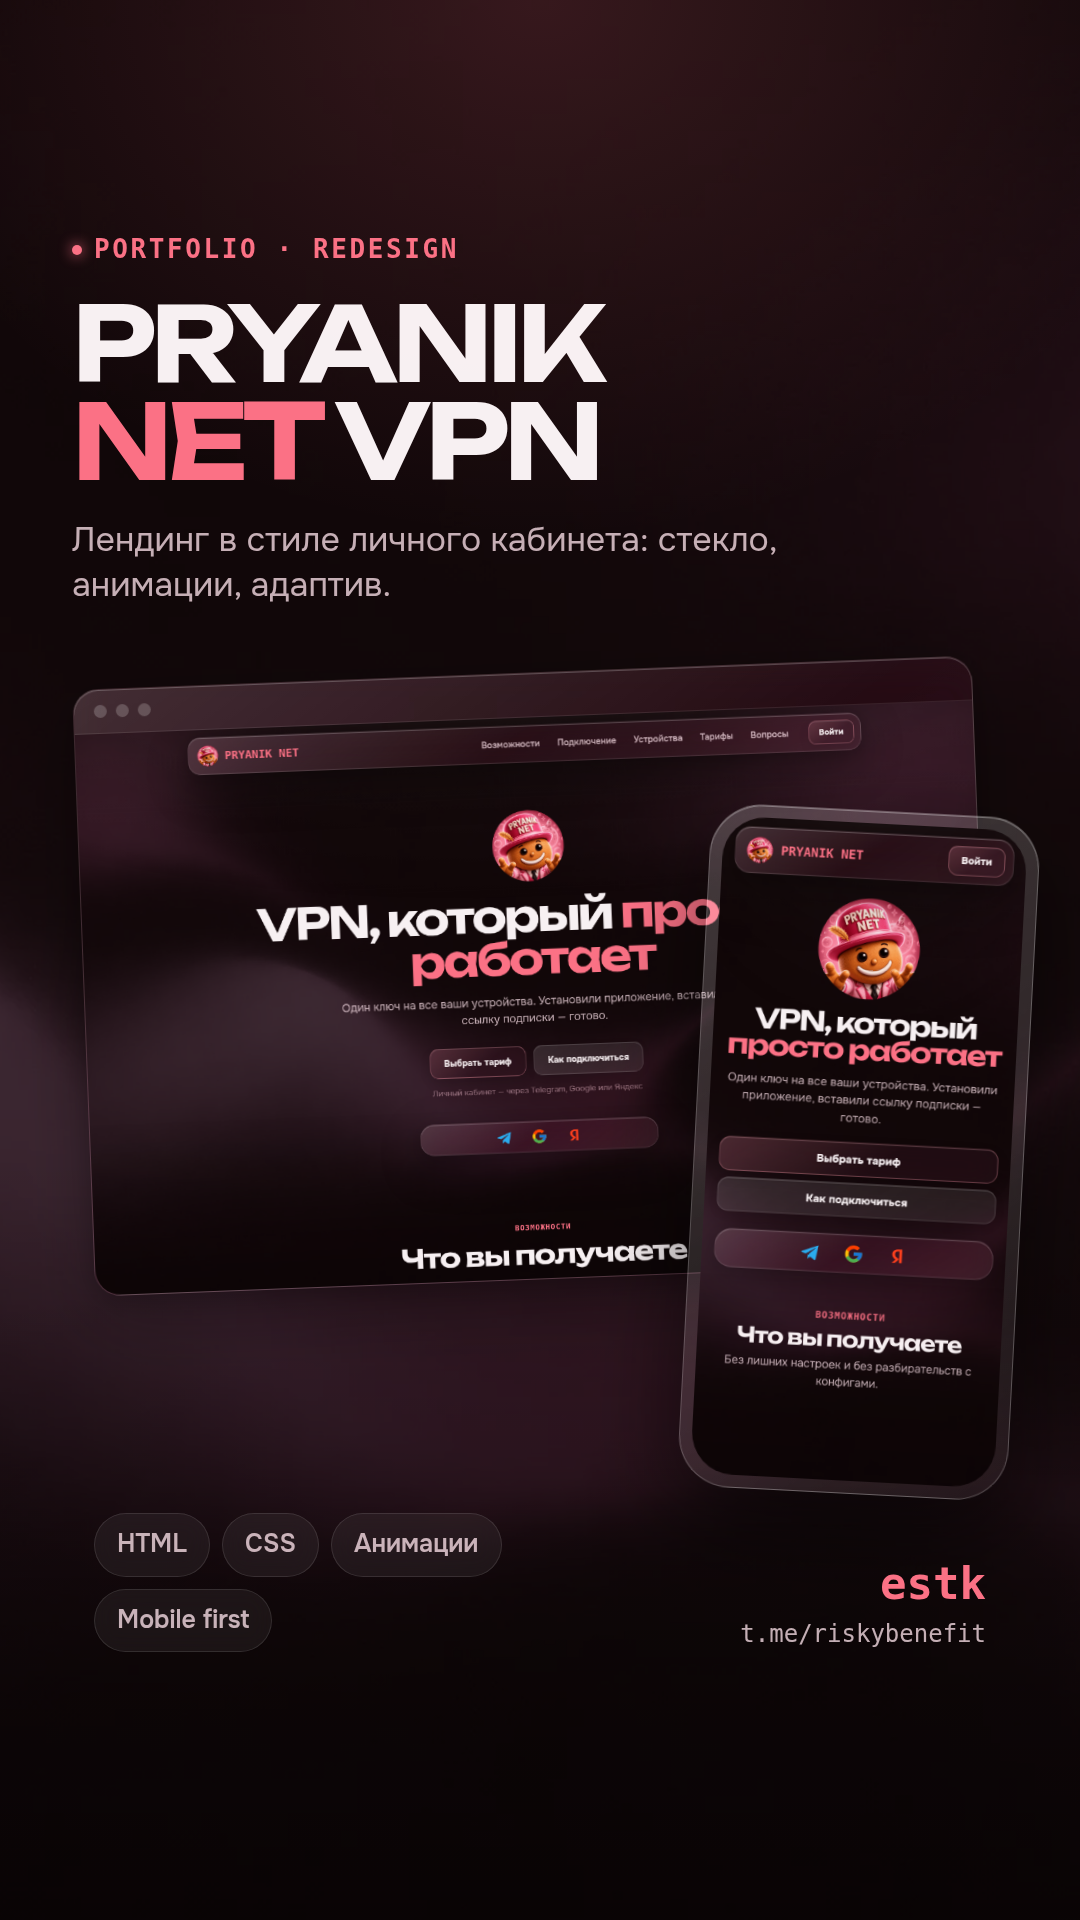
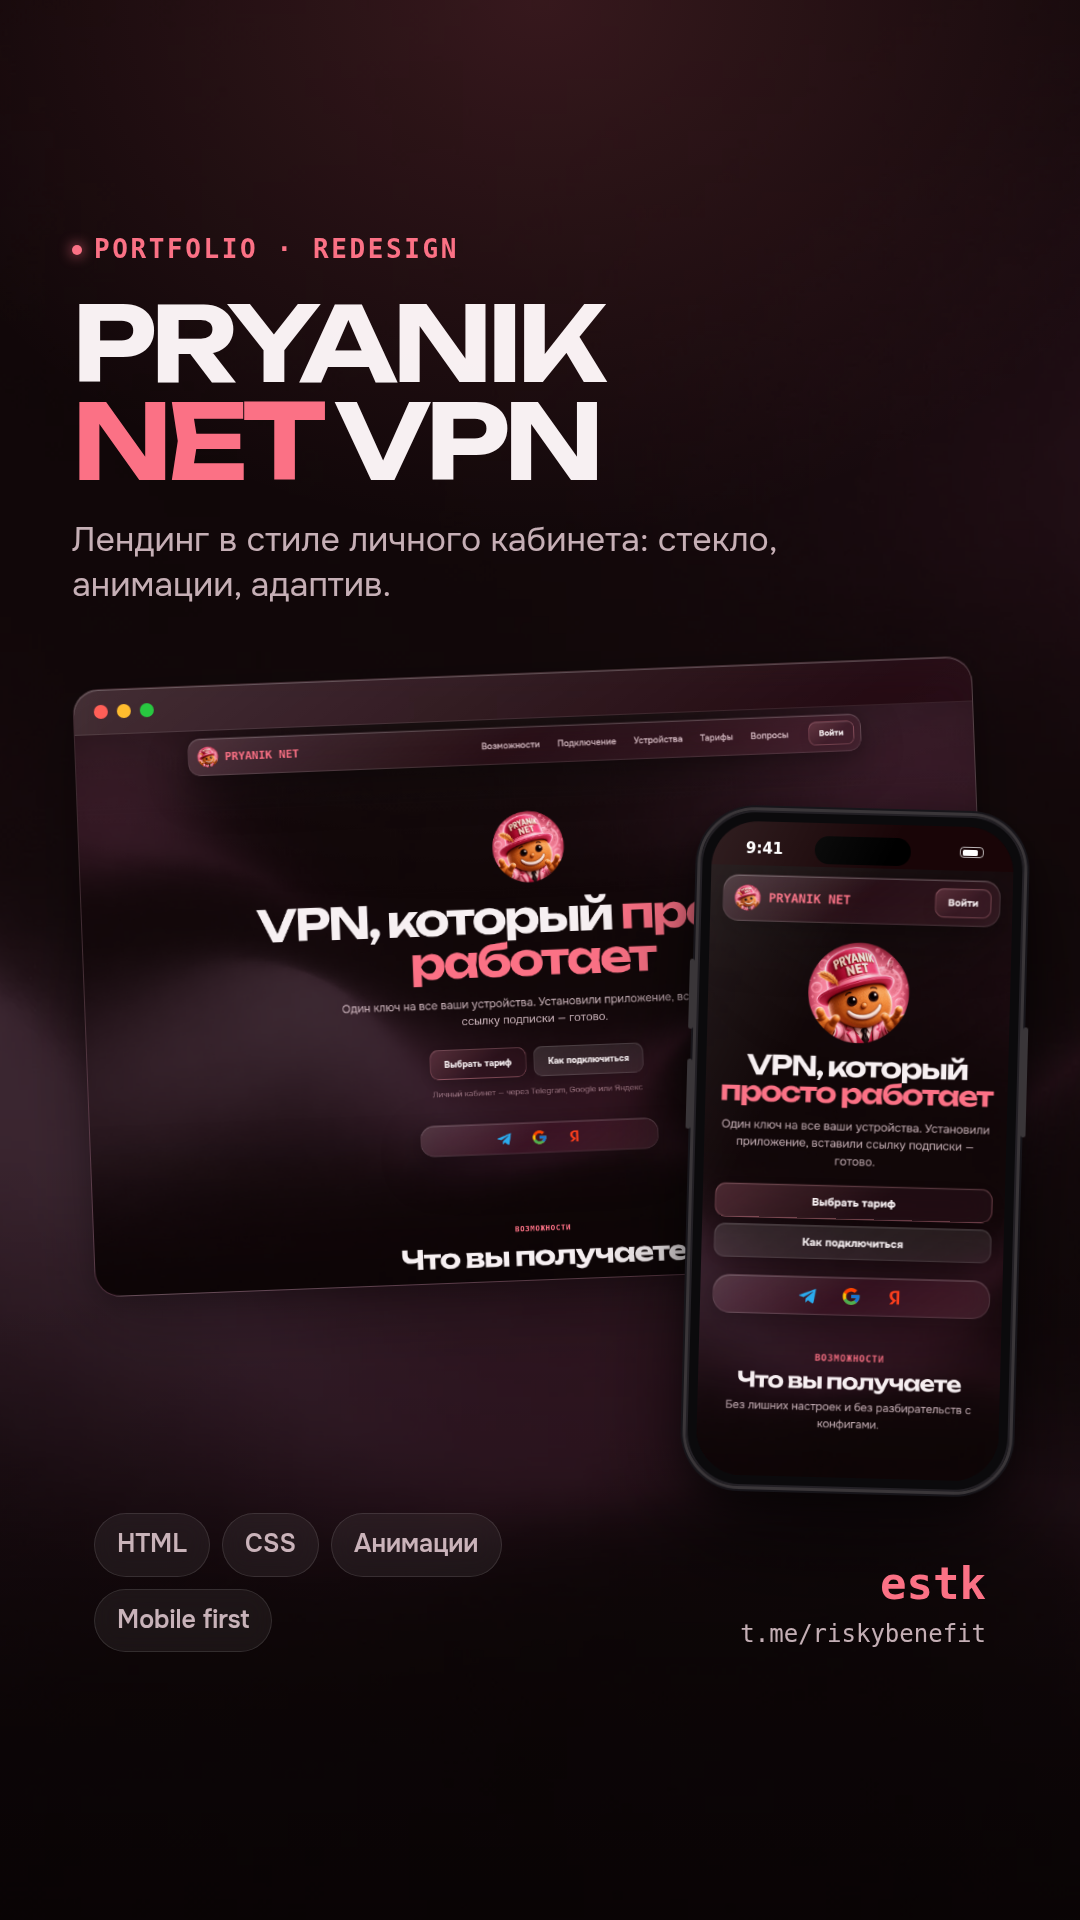
Story: realistic phone frame, colored window dots
Claude-Session: https://claude.ai/code/session_01LoewjAg2RbUAqsVYzxWfXA

diff --git a/pryanik-vpn/story/story.html b/pryanik-vpn/story/story.html
@@ -15,10 +15,19 @@ h1 em{font-style:normal;color:var(--accent)}
 .mock{position:absolute;left:0;right:0;top:690px;height:760px}
 .win{position:absolute;left:72px;top:0;width:900px;border-radius:26px;padding:0;transform:rotate(-2.2deg);transform-origin:left top}
 .win .top{display:flex;gap:9px;padding:15px 20px;border-bottom:1px solid rgba(255,255,255,.09)}
-.win .top i{width:13px;height:13px;border-radius:50%;background:rgba(255,255,255,.2)}
+.win .top i{width:14px;height:14px;border-radius:50%;background:#ff5f57}.win .top i:nth-child(2){background:#febc2e}.win .top i:nth-child(3){background:#28c840}
 .win img{display:block;width:100%}
-.phone{position:absolute;right:56px;top:120px;width:330px;border-radius:52px;padding:12px;transform:rotate(3deg);background:linear-gradient(145deg,rgba(255,255,255,.2),rgba(255,255,255,.05));border:1px solid rgba(255,255,255,.22);box-shadow:0 40px 90px rgba(0,0,0,.55),inset 0 1px 0 rgba(255,255,255,.3)}
-.phone img{display:block;width:100%;border-radius:42px}
+.phone{position:absolute;right:60px;top:120px;width:330px;padding:11px;border-radius:58px;transform:rotate(1.5deg);background:#0b0a0c;border:3px solid #3a3639;box-shadow:0 0 0 2px #17151a,inset 0 0 0 2px #232025,0 50px 100px rgba(0,0,0,.6),0 12px 30px rgba(0,0,0,.4)}
+.phone::before,.phone::after{content:"";position:absolute;width:5px;background:#3a3639;border-radius:3px}
+.phone::before{left:-8px;top:150px;height:70px;box-shadow:0 100px 0 #3a3639}
+.phone::after{right:-8px;top:210px;height:110px}
+.phone .isl{position:absolute;left:50%;top:24px;width:96px;height:28px;margin-left:-48px;border-radius:20px;background:#000;z-index:2}
+.phone .glare{position:absolute;inset:11px;border-radius:46px;background:linear-gradient(115deg,rgba(255,255,255,.10),transparent 32%);pointer-events:none;z-index:3}
+.scr{position:relative;overflow:hidden;border-radius:46px;background:#190507;aspect-ratio:390/844}
+.scr img{display:block;width:100%;margin-top:44px}
+.scr .sb{position:absolute;left:34px;right:30px;top:20px;display:flex;justify-content:space-between;font:600 15px/1 -apple-system,system-ui,sans-serif;color:#fff;z-index:1}
+.scr .sb i{display:inline-block;width:24px;height:11px;border:1.5px solid rgba(255,255,255,.7);border-radius:4px;position:relative}
+.scr .sb i::after{content:"";position:absolute;inset:1.5px;right:5px;background:#fff;border-radius:1.5px}
 .foot{position:absolute;left:72px;right:72px;bottom:250px;display:flex;align-items:flex-end;justify-content:space-between;gap:20px}
 .chips{display:flex;flex-wrap:wrap;gap:12px;max-width:560px}
 .chip{padding:12px 22px;border-radius:999px;font-size:25px;font-weight:600;color:var(--muted);border:1px solid var(--lg-line-soft);background:rgba(255,255,255,.06);backdrop-filter:blur(12px)}
@@ -32,7 +41,7 @@ h1 em{font-style:normal;color:var(--accent)}
   <p class="sub">Лендинг в стиле личного кабинета: стекло, анимации, адаптив.</p>
   <div class="mock">
     <div class="card win"><div class="top"><i></i><i></i><i></i></div><img src="shot-desktop.png" alt=""></div>
-    <div class="phone"><img src="shot-mobile.png" alt=""></div>
+    <div class="phone"><span class="isl"></span><div class="scr"><div class="sb"><span>9:41</span><i></i></div><img src="shot-mobile.png" alt=""></div><span class="glare"></span></div>
   </div>
   <div class="foot">
     <div class="chips"><span class="chip">HTML</span><span class="chip">CSS</span><span class="chip">Анимации</span><span class="chip">Mobile first</span></div>
